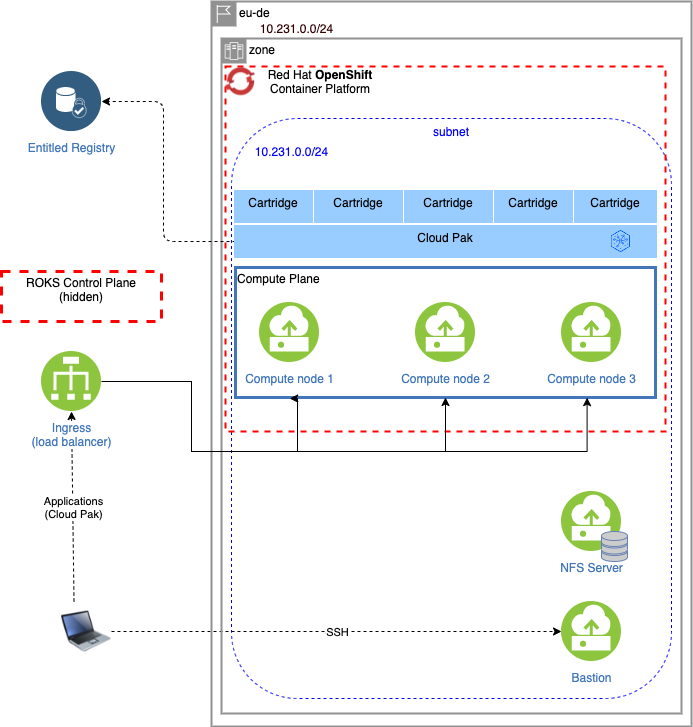
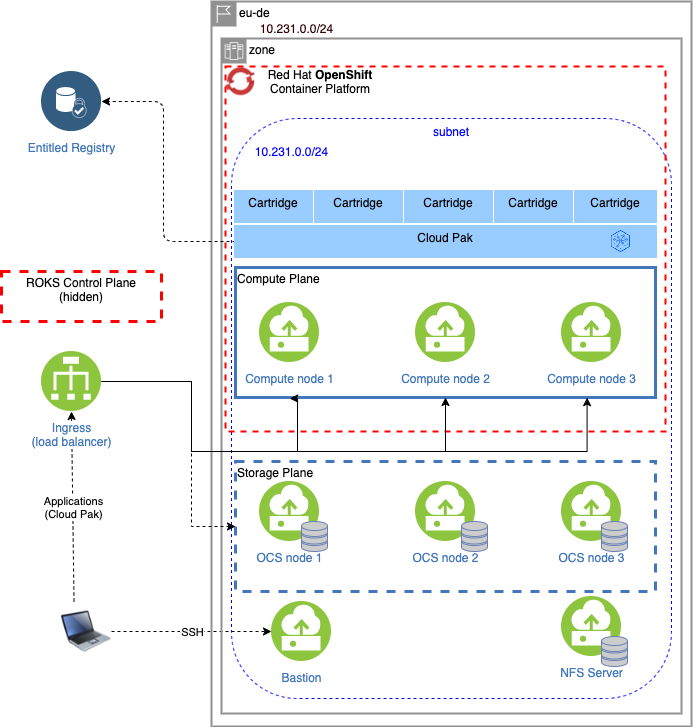
#221 Documentation for single-zone OCS

diff --git a/sample-configurations/sample-roks-vpc-nfs-cp4d-simple/README.md b/sample-configurations/sample-roks-vpc-nfs-cp4d-simple/README.md
@@ -1,5 +1,9 @@
 # IBM Cloud ROKS on VPC with NFS storage class and Cloud Pak for Data
-This is a sample configuration for ROKS on IBM Cloud, provisioned in a VPC with NFS storage. All infrastructure, OpenShift and Cloud Pak for Data are managed by the deployer and deployment requires nothing but an IBM Cloud API key and a Cloud Pak entitlement key.
+This is a sample configuration for ROKS on IBM Cloud, provisioned in a VPC with NFS storage. Optionally, you can also configure OpenShift Container Storage on 3 dedicated nodes within the ROKS cluster. All infrastructure, OpenShift and Cloud Pak for Data are managed by the deployer and deployment requires nothing but an IBM Cloud API key and a Cloud Pak entitlement key.
+
+<InlineNotification kind="warning">
+This configuration is not highly available and has several single points of failure (SPoF). The NFS server is a single server and its storage is not replicated. If the NFS server is faulty, the applications (Cloud Pak) on the cluster will no longer work and have to be restored or reinstalled. Even when using OpenShift Container Storage (deployed on 3 nodes), there is a still a SPoF because all OCS workers are deployed in the same subnet and availability zone.
+</InlineNotification>
 
 ![Picture of the environment](./sample-roks-vpc-nfs-cp4d-simple.png)
 
@@ -20,7 +24,7 @@ A bastion is provisioned to serve as a jump host from the internet. It prevents 
 The NFS server provides the back-end storage for the `managed-nfs-storage` storage class in OpenShift. Due to throughput limitations and the fact that NFS cannot serve true block storage, not all cartridges support this storage type. Please check the cartridge in question before you install to determine if NFS is supported. By default a 1 TB volume is with a throughput of 10k IOPS is added to the NFS server.
 
 ## OpenShift
-An OpenShift cluster with the specified version (4.8) is provisioned inside the VPC. In the sample configuration, the `managed-nfs-storage` storage class is created, referencing the NFS server that is provisioned in the VPC.
+An OpenShift cluster with the specified version (4.8) is provisioned inside the VPC. In the sample configuration, the `managed-nfs-storage` storage class is created, referencing the NFS server that is provisioned in the VPC. Optionallym OpenShift Container Storage (OpenShift Data Foundation) is deployed on 3 dedicated storage/worker nodes. As part of the OCS provisioning, 2 storage classes are created: `ocs-storagecluster-cephfs` for file storage and `ocs-storagecluster-ceph-rbd` for block storage.
 
 ## Cloud Pak for Data
 Cloud Pak for Data 4.0 is installed in OpenShift project `zen-40`, pulling images from the IBM entitled registry and referencing the NFS storage class in OpenShift.
